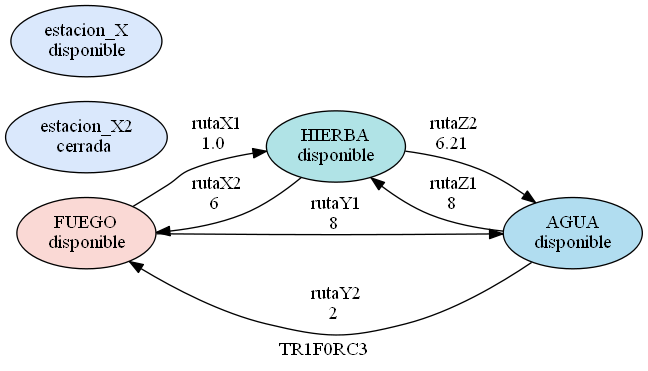
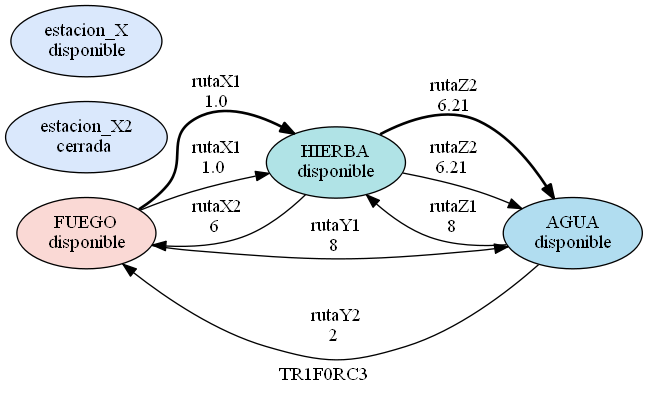
Vfinal

diff --git a/Proyecto1/CargarMapa.py b/Proyecto1/CargarMapa.py
@@ -1,28 +1,142 @@
 import os
 
 class CargarMapa:
+
+    inicio = ""
+    final = ""
+    sumas = []
+    todasrutas = []
+    peso = 0
     nodos_estaciones = []
     nodos_rutas = []
+    mejor_ruta = []
 
-    #def calcularMejorRuta(self):
+
+    def graphDemas(self, ruta1, rutas):
+        for ruta in rutas:
+             if ruta1.get_fin().lower() == ruta.get_inicio().lower() and ruta.get_fin().lower() != ruta1.get_inicio().lower() and ruta.get_inicio().lower() != self.final:
+                 self.mejor_ruta.append(ruta)
+                 p1 = '[label ="'
+                 p2 = 'style = bold '
+                 nodo = ruta.get_inicio().lower() + "->" + ruta.get_fin().lower() + p1 + ruta.get_nombre() + "\n" + ruta.get_peso() + '" ' + p2 + ' ]'
+                 self.nodos_rutas.append(nodo)
+                 ruta2 = ruta.get_fin().lower()
+                 for ruta in rutas:
+                    if ruta2 == ruta.get_inicio().lower() and ruta.get_fin().lower() != ruta2 and ruta.get_inicio().lower() != self.final:
+                        p1 = '[label ="'
+                        p2 = 'style = bold '
+                        nodo = ruta.get_inicio().lower() + "->" + ruta.get_fin().lower() + p1 + ruta.get_nombre() + "\n" + ruta.get_peso() + '" ' + p2 + ']'
+                        self.nodos_rutas.append(nodo)
+                        ruta3 = ruta.get_fin().lower()
+                        for ruta in rutas:
+                            if ruta3 == ruta.get_inicio().lower() and ruta.get_inicio().lower() != self.inicio.lower():
+                                p1 = '[label ="'
+                                p2 = 'style = bold '
+                                nodo = ruta.get_inicio().lower() + "->" + ruta.get_fin().lower() + p1 + ruta.get_nombre() + "\n" + ruta.get_peso() + '" ' + p2 + ']'
+                                self.nodos_rutas.append(nodo)
+                                ruta4 = ruta.get_inicio().lower()
+
+        return
+
+    def graficarMejorRuta(self,nombreMapa,mejorInicio, rutas, estaciones):
+        for ruta in rutas:
+            if mejorInicio == ruta:
+                self.mejor_ruta.append(mejorInicio)
+                p1 = '[label ="'
+                p2 = 'style = bold '
+                nodo = ruta.get_inicio().lower() + "->" + ruta.get_fin().lower() + p1 + ruta.get_nombre() + "\n" + ruta.get_peso() + '" ' + p2 + ']'
+                self.nodos_rutas.append(nodo)
+                self.graphDemas(mejorInicio, rutas)
+                continue
+
+        for estacion in estaciones:
+            for ruta in self.mejor_ruta:
+                if ruta.get_inicio().lower() == estacion.get_nombre().lower():
+                    nodo = ""
+                    p2 = ' style=filled fillcolor= "'
+                    p1 = '[label = "'
+                    if estacion.get_estado() == True:
+                        nodo = estacion.get_nombre().lower() + p1 + estacion.get_nombre() + '\ndisponible" ' + p2 + estacion.get_color() + '"' + "]"
+                    self.nodos_estaciones.append(nodo)
+                elif self.final == estacion.get_nombre().lower():
+                    nodo = ""
+                    p2 = ' style=filled fillcolor= "'
+                    p1 = '[label = "'
+                    if estacion.get_estado() == True:
+                        nodo = estacion.get_nombre().lower() + p1 + estacion.get_nombre() + '\ndisponible" ' + p2 + estacion.get_color() + '"' + "]"
+                    self.nodos_estaciones.append(nodo)
+        self.graficar(nombreMapa)
+
+
+
+    def sumasRutas(self, ruta1, rutas):
+        for ruta in rutas:
+            if ruta1.get_fin().lower() == ruta.get_inicio().lower() and ruta.get_fin().lower() != ruta1.get_inicio().lower() and ruta.get_inicio().lower() != self.final:
+                self.peso += float(ruta.get_peso())
+                ruta2 = ruta.get_fin().lower()
+
+                for ruta in rutas:
+                    if ruta2 == ruta.get_inicio().lower() and ruta.get_fin().lower() != ruta2 and ruta.get_inicio().lower() != self.final:
+                        self.peso += float(ruta.get_peso())
+                        ruta3 = ruta.get_fin().lower()
+
+                        for ruta in rutas:
+                            if ruta3 == ruta.get_inicio().lower() and ruta.get_fin().lower() != ruta3 and ruta.get_inicio().lower() != self.final:
+                                self.peso += float(ruta.get_peso())
+
+        self.sumas.append(self.peso)
+        self.peso = 0
+
+        return
+
+
+    def calcularMejorRuta(self, nombreMapa, rutas, estaciones):
+        print("Por favor ingrese una ruta de inicio")
+        self.inicio = input()
+        print("Por favor ingrese una ruta final")
+        self.final = input()
+
+        size = len(rutas)
+
+        for ruta in rutas:
+            if ruta.get_inicio().lower() == self.inicio.lower():
+                self.todasrutas.append(ruta)
+                self.peso += float(ruta.get_peso())
+                self.sumasRutas(ruta, rutas)
+
+
+        posicion = self.sumas.index(min(self.sumas))
+        print(self.sumas)
+        print(posicion)
+        print(self.todasrutas[0].get_nombre())
+        print(self.todasrutas[1].get_nombre())
+        mejorinicio = self.todasrutas[posicion]
+        self.graficarMejorRuta(nombreMapa, mejorinicio, rutas, estaciones)
+
+
+
+
     def ordenar(self, nombreMapa, rutas, estaciones):
+
 
         for estacion in estaciones:
             nodo = ""
             p2 = ' style=filled fillcolor= "'
             p1 = '[label = "'
             if estacion.get_estado() == True:
-                nodo = estacion.get_nombre() + p1 + estacion.get_nombre() + '\ndisponible" ' + p2 + estacion.get_color() +'"' +"]"
-                print(nodo)
+                nodo = estacion.get_nombre().lower() + p1 + estacion.get_nombre() + '\ndisponible" ' + p2 + estacion.get_color() +'"' +"]"
+
                 self.nodos_estaciones.append(nodo)
             else:
-                nodo = estacion.get_nombre() + p1 + estacion.get_nombre() + '\ncerrada "' + p2 + estacion.get_color() +'"'+ "]"
-                print(nodo)
+                nodo = estacion.get_nombre().lower() + p1 + estacion.get_nombre() + '\ncerrada "' + p2 + estacion.get_color() +'"'+ "]"
+
                 self.nodos_estaciones.append(nodo)
 
         for ruta in rutas:
             p1 = '[label ="'
-            nodo = ruta.get_inicio().upper() + "->" + ruta.get_fin().upper() + p1 + ruta.get_nombre() + "\n" + ruta.get_peso()+ ' "]'
+            p2 = 'style = bold '
+
+            nodo = ruta.get_inicio().lower() + "->" + ruta.get_fin().lower() + p1 + ruta.get_nombre() + "\n" + ruta.get_peso()+ ' "]'
             self.nodos_rutas.append(nodo)
 
         self.graficar(nombreMapa)
@@ -35,12 +149,12 @@ class CargarMapa:
         file.write("rankdir= LR" + "\n")
         for nodo in self.nodos_estaciones:
 
-            print(nodo + "Este es el nodo")
+
             file.write(nodo+ "\n")
         for nodo in self. nodos_rutas:
             file.write(nodo + "\n")
 
-        file.write('label = "' + nombreMapa+ '" ;')
+        file.write('label = "' + nombreMapa+ '" ;' + "\n")
         file.write("}")
         file.close()
         os.system('dot -Tpng Prueba.dot -o P1.png')

diff --git a/Proyecto1/main.py b/Proyecto1/main.py
@@ -4,10 +4,10 @@ from CargarArchivo import ArchivoCarga
 
 ir_seleccion = ArchivoCarga()
 def cargar_archivo():
-    #ruta = filedialog.askopenfilename(filetypes=(("txt files", "*.txt"), ("all files", "*.*")))
-    #Tk().withdraw()
-    #file = open(ruta, "r", encoding='utf-8')
-    file = open('C:/Users/Erick Mayorga/Desktop/LFP-Proyecto1-201901758/input2.txt','r', encoding='utf-8')
+    ruta = filedialog.askopenfilename(filetypes=(("txt files", "*.txt"), ("all files", "*.*")))
+    Tk().withdraw()
+    file = open(ruta, "r", encoding='utf-8')
+    #file = open('C:/Users/Erick Mayorga/Desktop/LFP-Proyecto1-201901758/input2.txt','r', encoding='utf-8')
     print(file)
     info = file.read()
 
@@ -16,6 +16,7 @@ def cargar_archivo():
 
 def graficar_ruta():
     print("algo")
+    ir_seleccion.mejorRuta()
 
 
 def graficar_mapa():
@@ -39,6 +40,8 @@ def main_menu():
         opcion = int(input())
         if opcion == 1:
             cargar_archivo()
+        if opcion == 2:
+            graficar_ruta()
         if opcion == 3:
             graficar_mapa()
         else:

diff --git a/Proyecto1/CargarArchivo.py b/Proyecto1/CargarArchivo.py
@@ -14,7 +14,8 @@ class ArchivoCarga:
     estaciones = []
 
     def mejorRuta(self):
-        self.un_nuevo_mapa.calcularMejorRuta()
+        self.un_nuevo_mapa.calcularMejorRuta(self.nombre_mapa,self.rutas,self.estaciones)
+
     def unMapa(self):
         self.un_nuevo_mapa.ordenar(self.nombre_mapa,self.rutas,self.estaciones)
 
